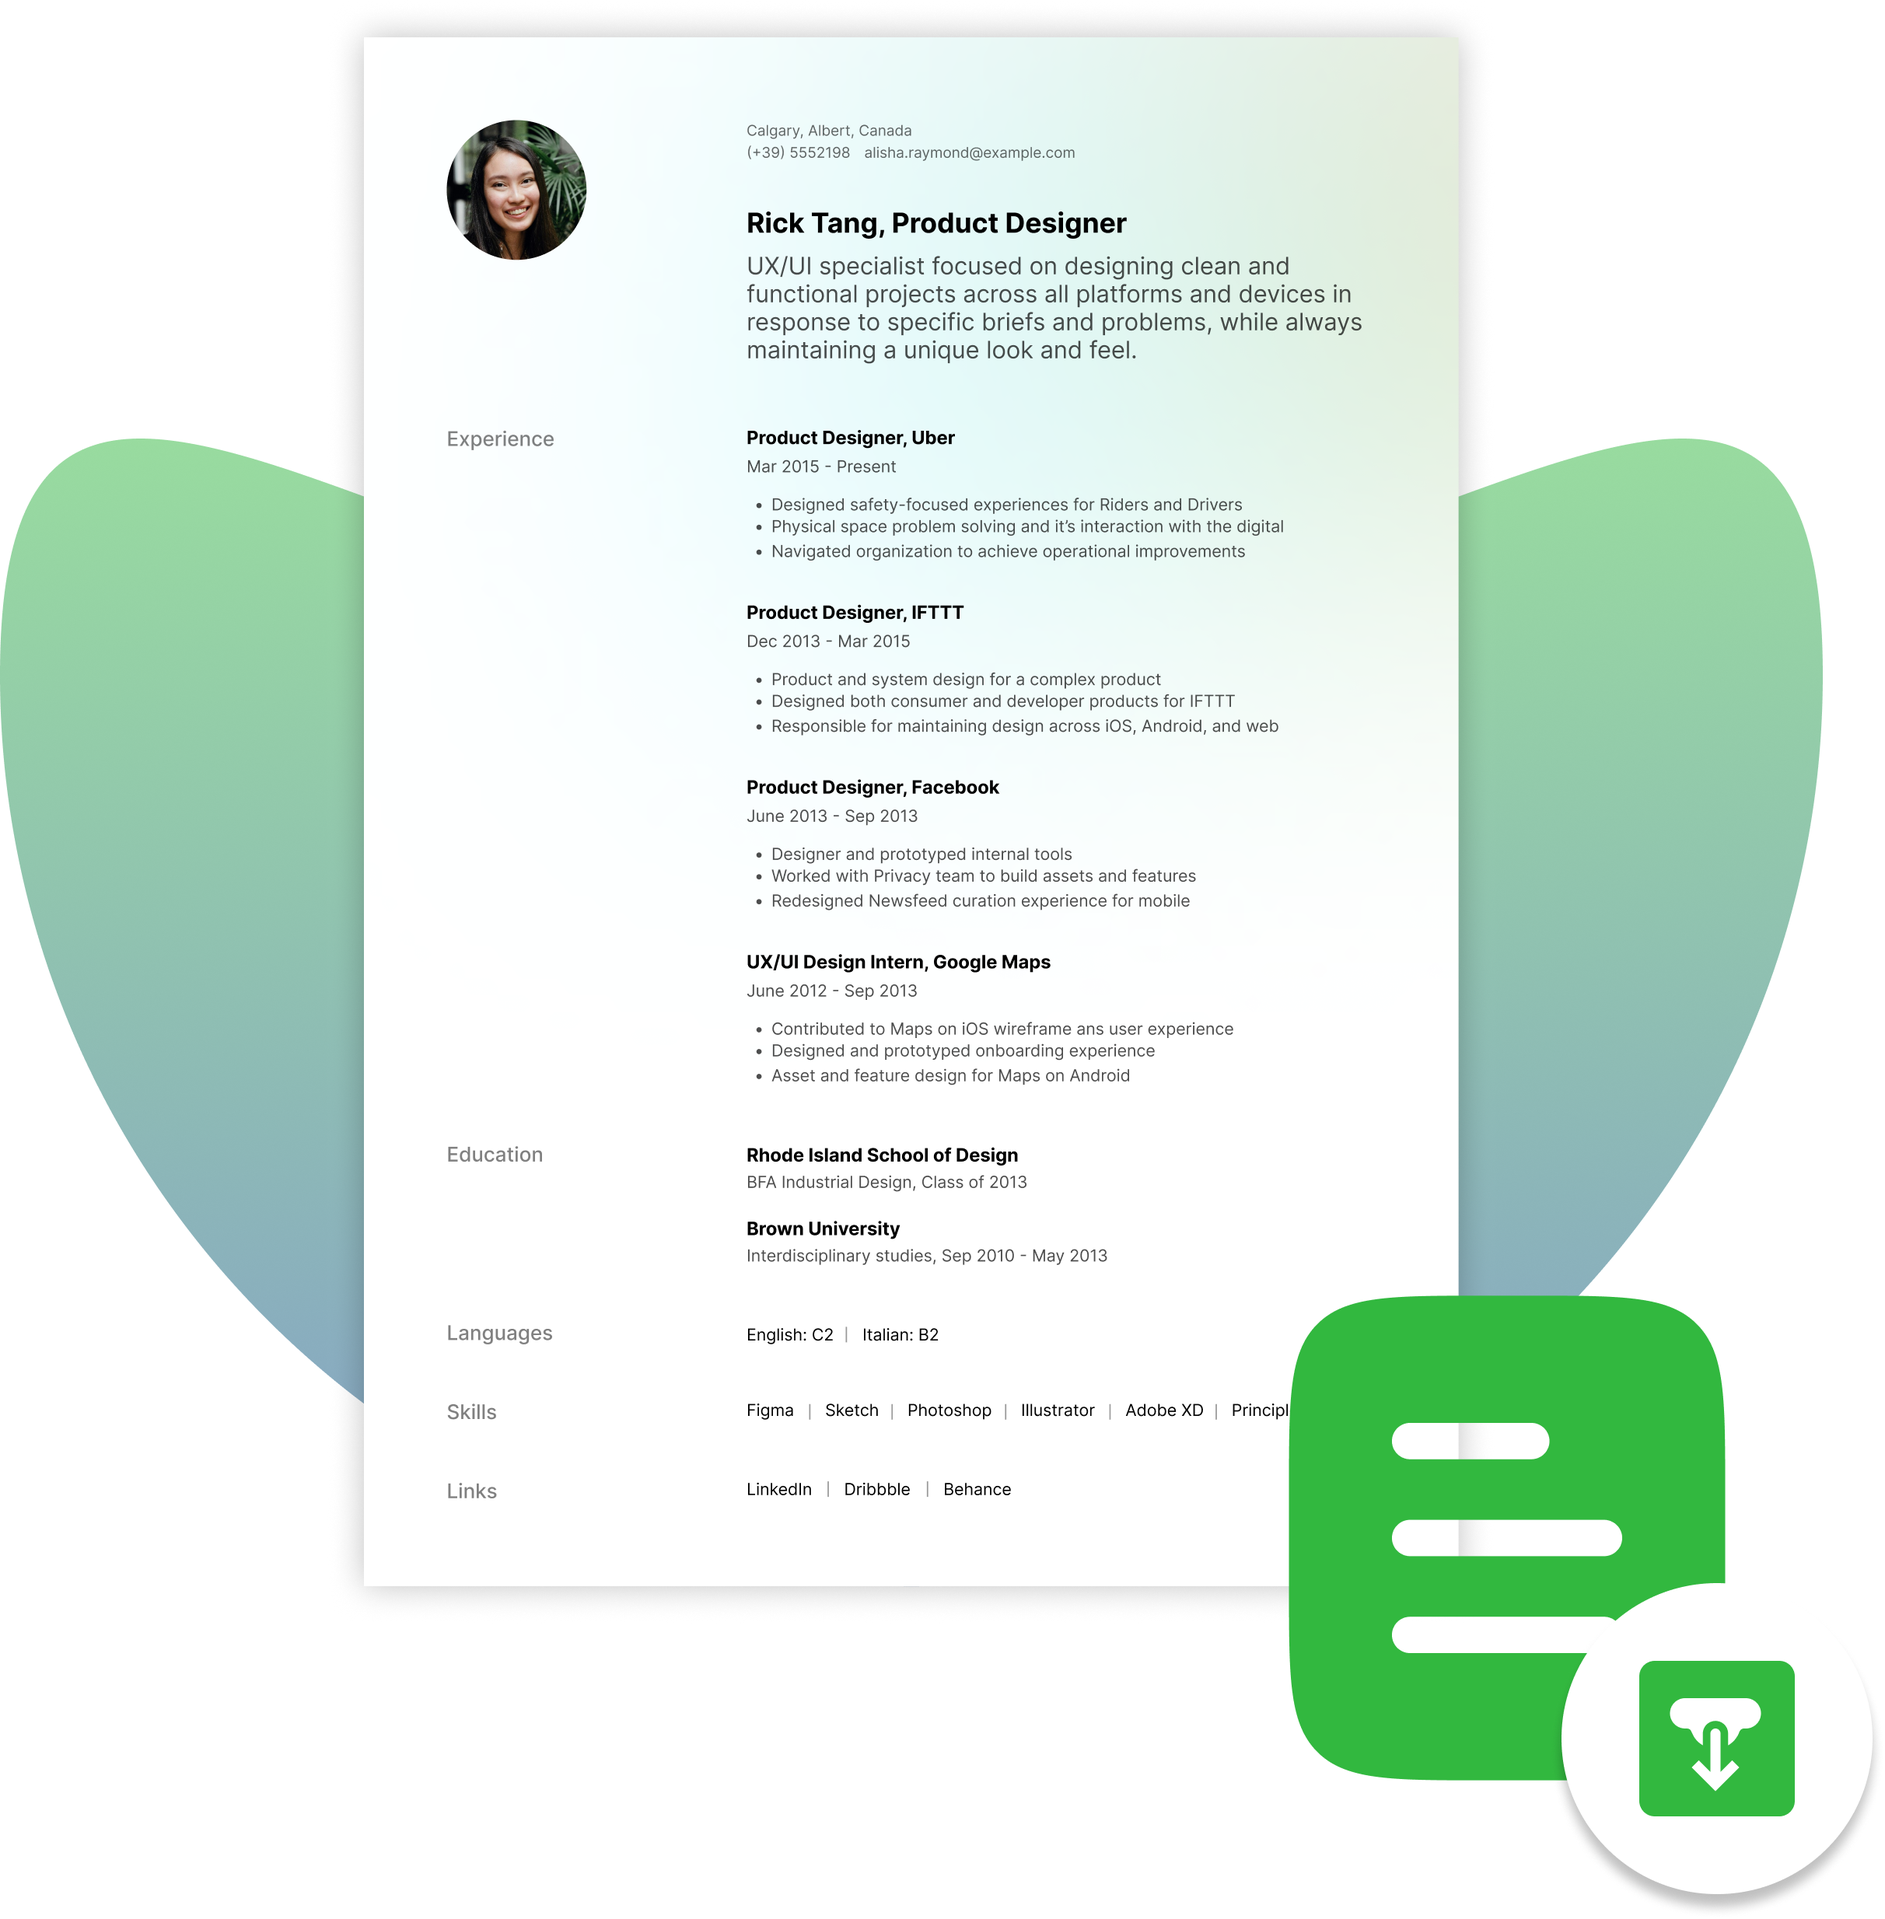
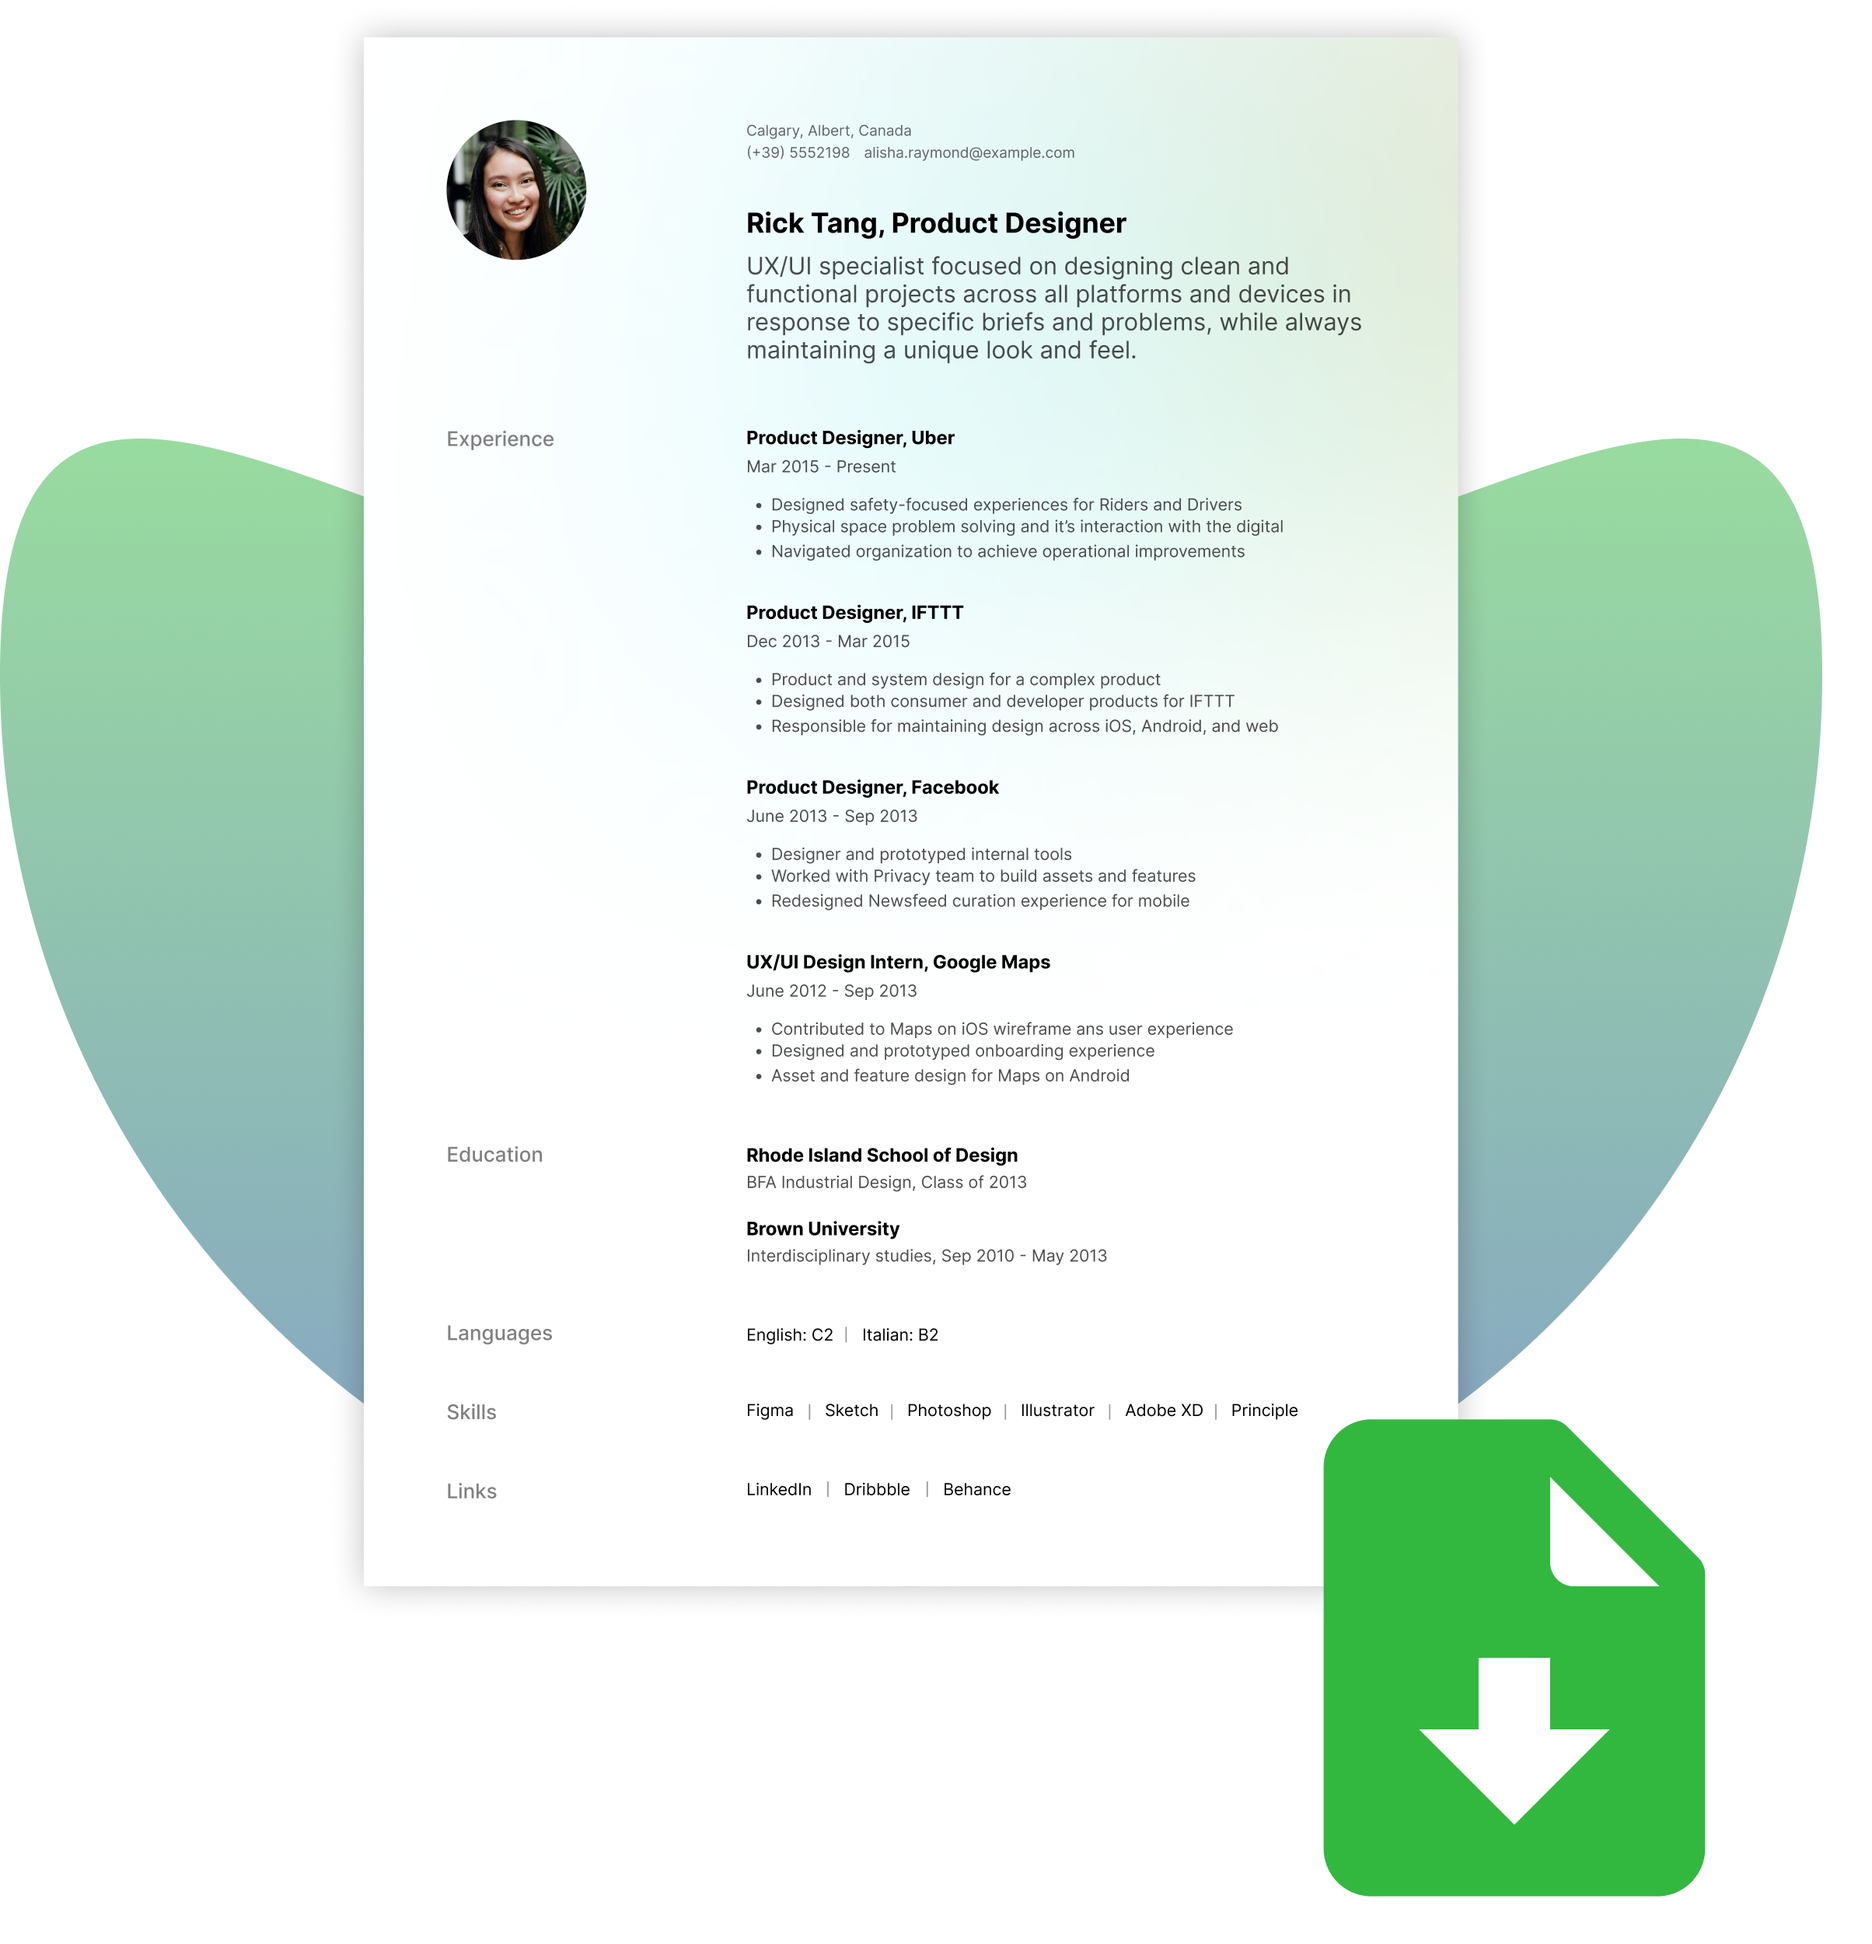
updated

diff --git a/src/components/Home-section/ResumeList.jsx b/src/components/Home-section/ResumeList.jsx
@@ -291,7 +291,7 @@ import PropTypes from "prop-types";
 import resume1 from "../../assets/Resume-templates-swiper_1.png";
 import resume2 from "../../assets/Resume-templates-swiper_2.png";
 import resume3 from "../../assets/Resume-templates-swiper_3.png";
-import resume4 from "../../assets/Resume-templates-swiper_4.png";
+import resume4 from "../../assets/Resume-templates-swiper_6.png";
 import resume5 from "../../assets/Resume-templates-swiper_5.png";
 import Button from "../../UI/Button";
 import { useNavigate } from "react-router-dom";

diff --git a/src/components/Home-section/HeroSection.jsx b/src/components/Home-section/HeroSection.jsx
@@ -1,6 +1,6 @@
 import { useState, useEffect } from "react";
 import Button from "../../UI/Button.jsx";
-import heroImage from "../../assets/step-4.png"; // your resume preview
+import heroImage from "../../assets/Hero_Banner.png"; // your resume preview
 import background from "../../assets/banner-back.jpg"; // your background image
 import Navbar from "../../UI/Navbar.jsx";
 import group from "../../assets/Group.png";
